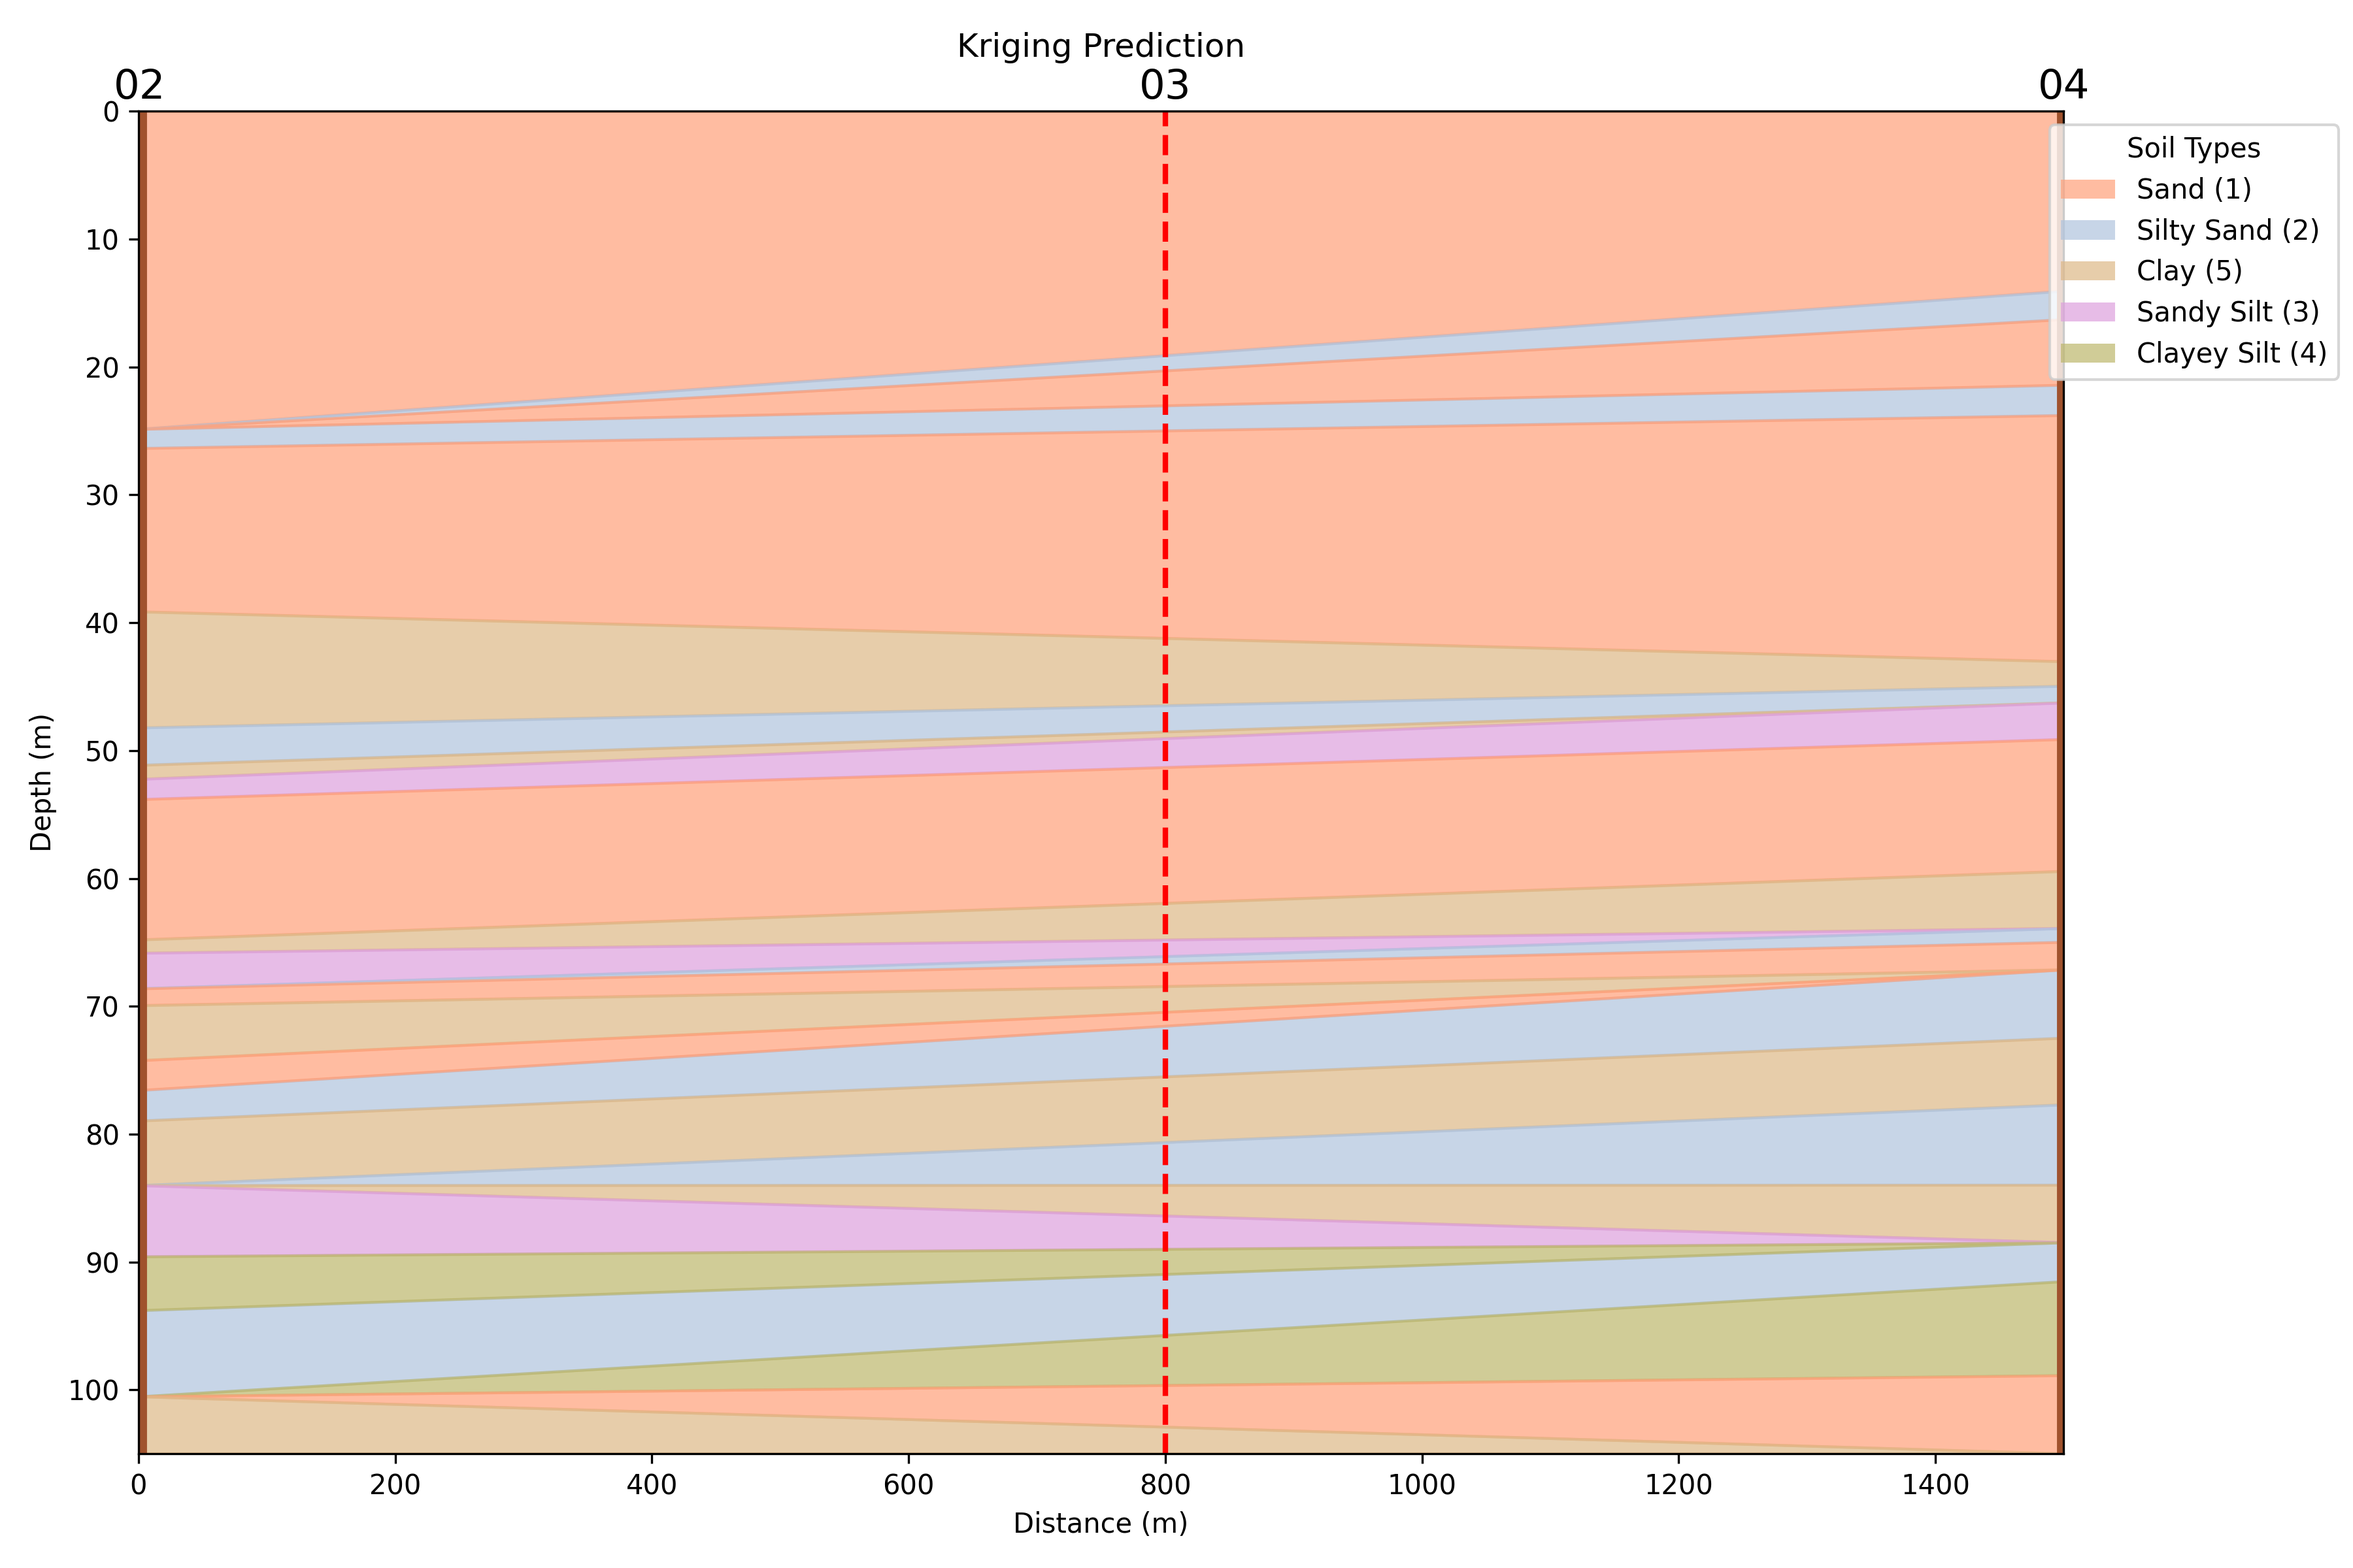
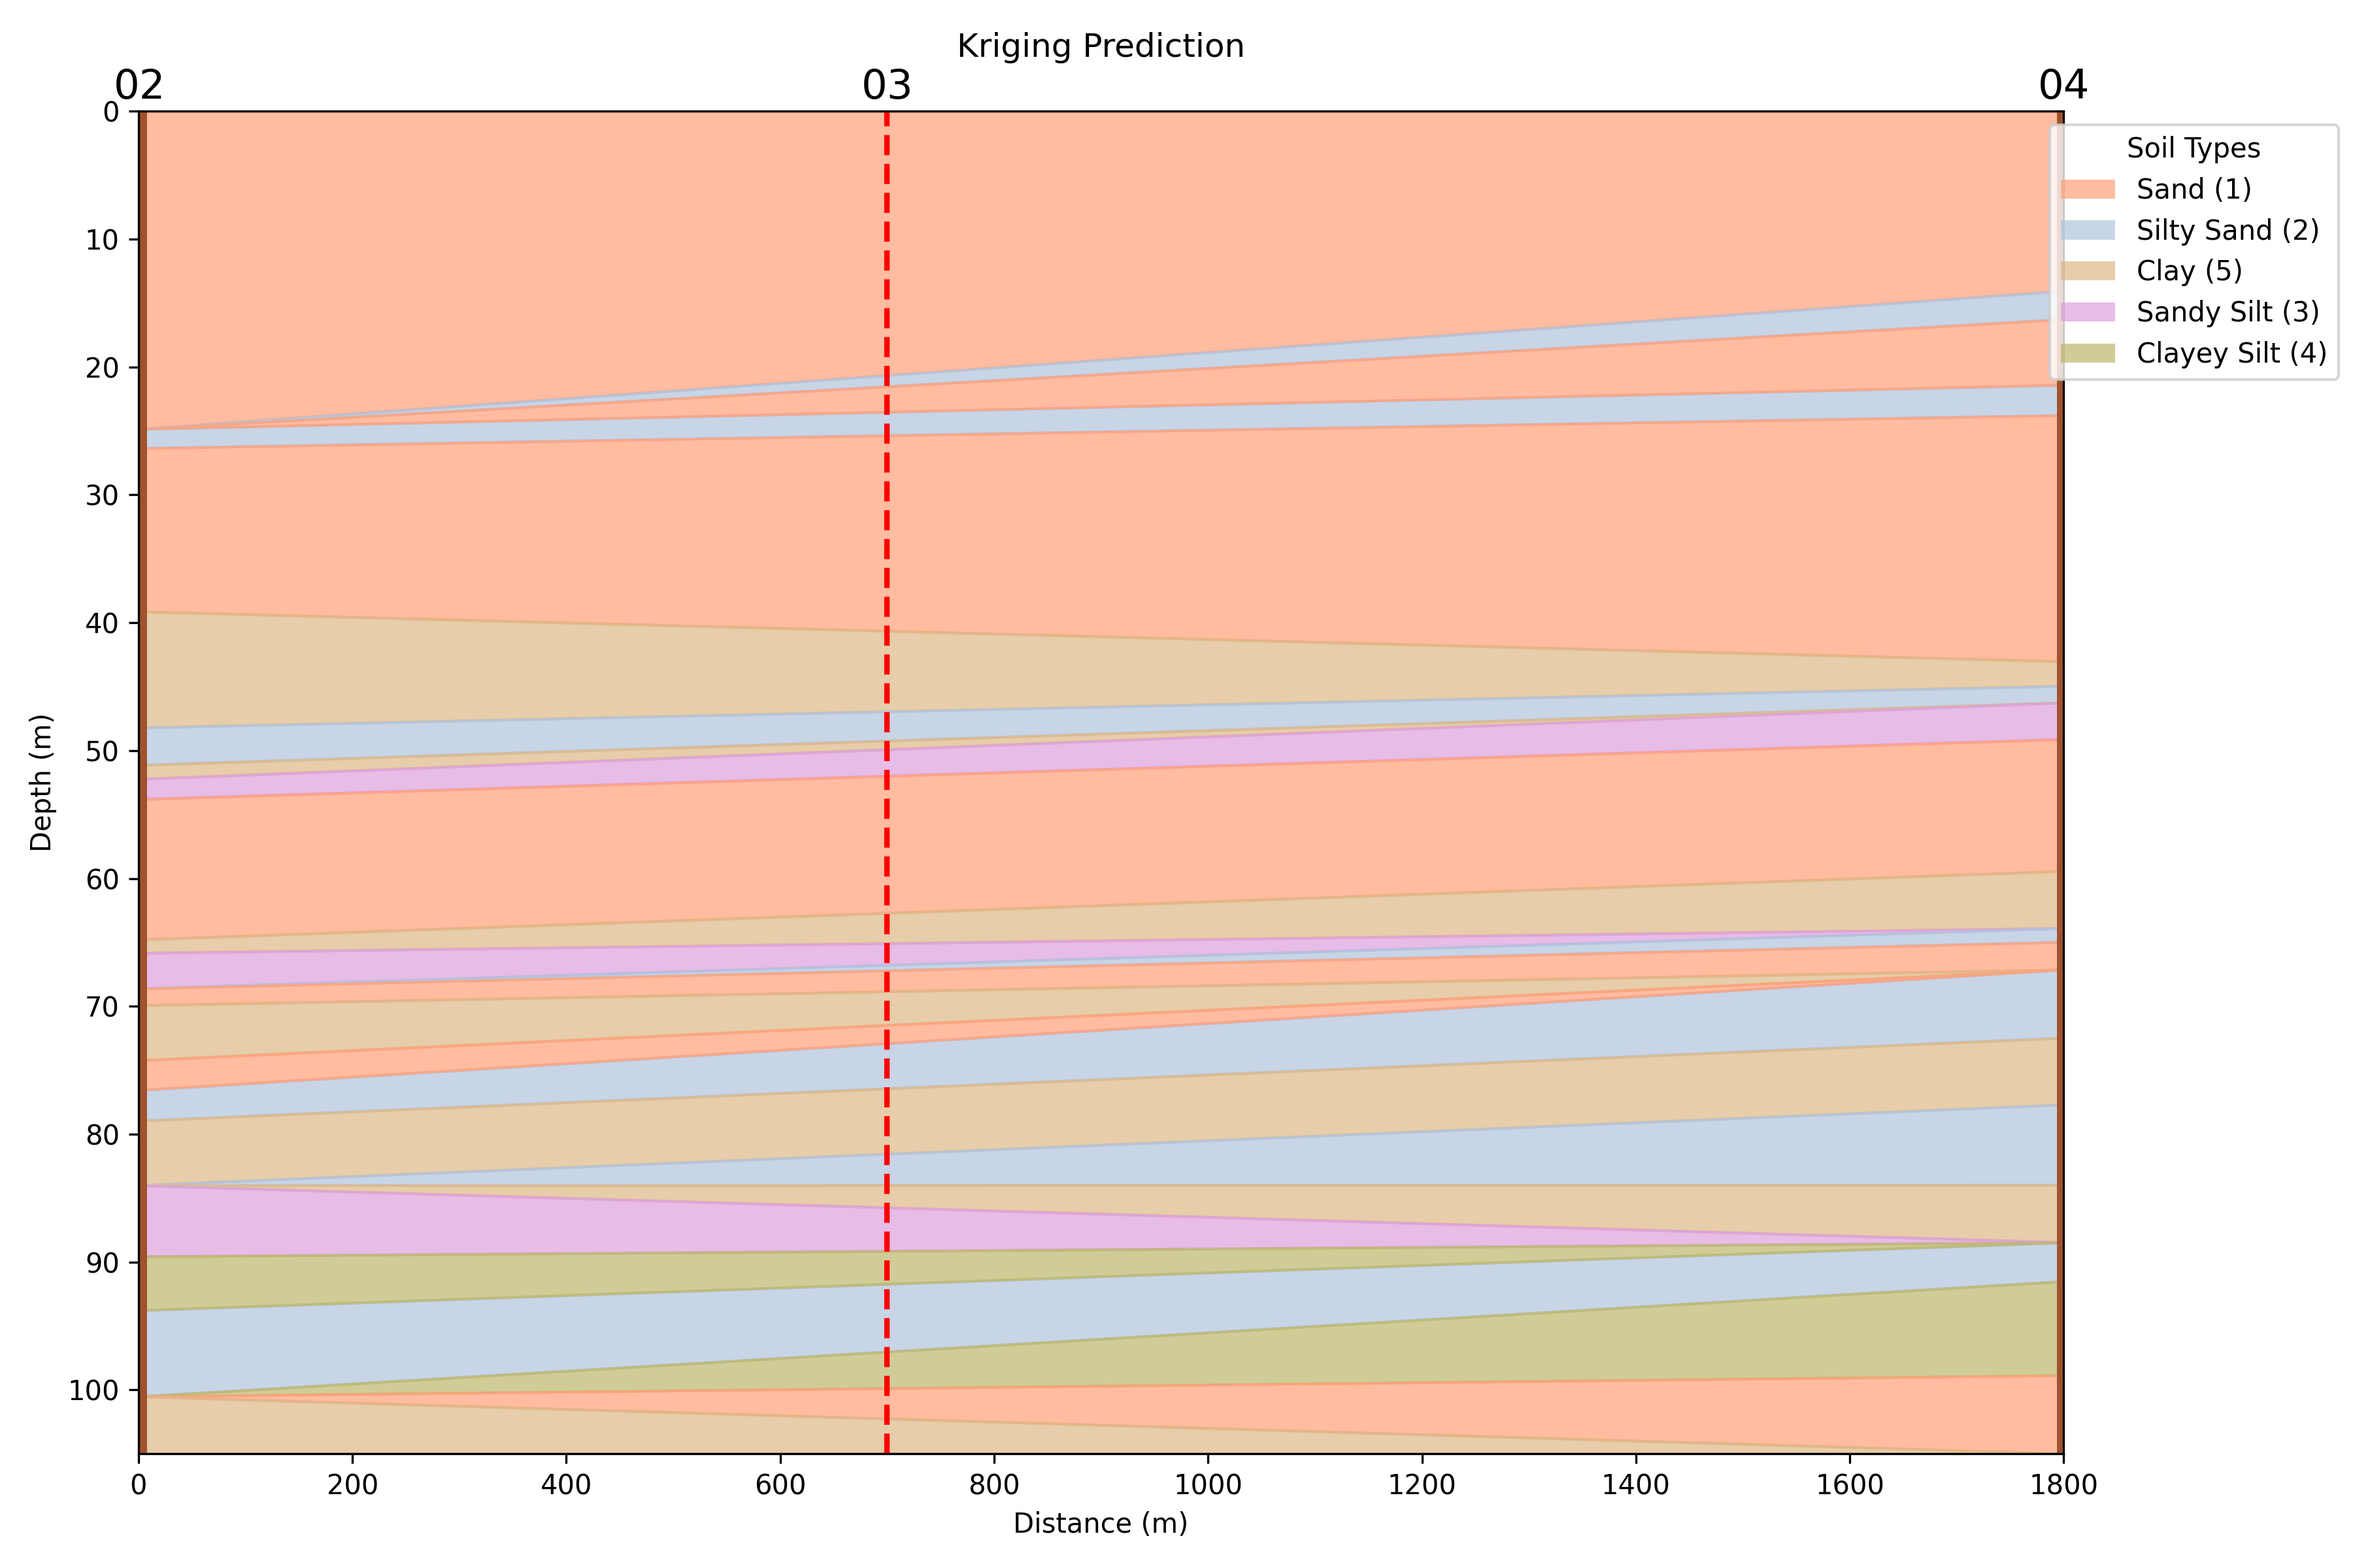
完成克利金整套程式-1

diff --git a/test.py b/test.py
@@ -12,9 +12,9 @@ from decimal import Decimal, ROUND_UP
 import sys
 
 # 運行第一個程式
-subprocess.run(["python", "Data_processing.py"])
+#subprocess.run(["python", "Data_processing.py"])
 
-subprocess.run(["python", "Kriging.py"])
+#subprocess.run(["python", "Kriging.py"])
 
 with open("result.json", "r") as f:
     result = json.load(f)
@@ -95,10 +95,10 @@ data_1 = pd.read_excel(processed_files[0])
 data_2 = pd.read_excel(processed_files[1])
 
 borehole_position_1 = result["positions_1"]
-borehole_position_2 = 1500
+borehole_position_2 = result["positions_2"]
 weight_1 = result["weight_1"]
 weight_2 = result["weight_2"]
-predict_position = 800
+predict_position = result["prediction_position"]
 
 
 
